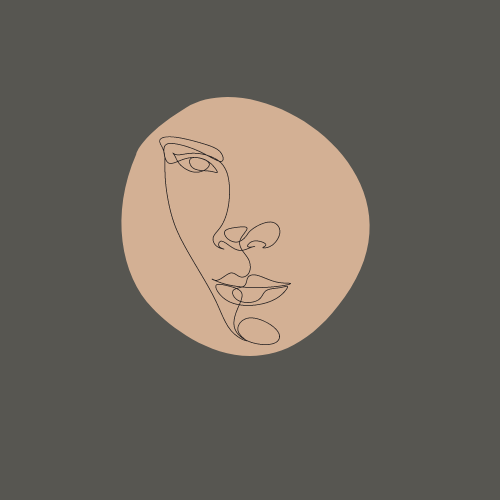
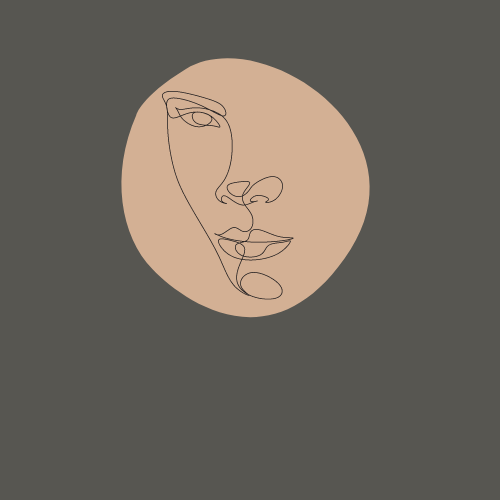
feat: add font-family generation

Changed region(s): [[0.24, 0.09, 0.75, 0.72], [0.36, 0.39, 0.39, 0.42]]

diff --git a/src/components/logoGeneration/index.ts b/src/components/logoGeneration/index.ts
@@ -23,14 +23,15 @@ export function sortLogoByScope() {
       resultArray = templatesMidecal;
       break;
     default:
-      console.log('default');
+      return;
   }
   return resultArray;
 }
 
 export function sortLogoTemplates() {
   const result = sortLogoByScope();
-  const filterStyle = result.filter(item => item.style === logoParameters.style && item.color === logoParameters.color);
+  // eslint-disable-next-line @typescript-eslint/no-non-null-assertion
+  const filterStyle = result!.filter(item => item.style === logoParameters.style && item.color === logoParameters.color);
   let resultArray: ITemplates[] = [];
   while (resultArray.length != 2) {
     const index = getRandomInt(filterStyle.length);    
@@ -58,4 +59,35 @@ export function checkBusinessPage() {
     logoParameters.scope = (document.querySelector('.type-of-activity') as HTMLSelectElement).value;
   }
 }
-  
+
+export function checkFontFamily(scope: string) {
+  let resultFont: string[] = [];
+  let fontsScope: string[] = [];
+  const fontsArt = ['Aboreto', 'Dancing Script', 'Kaushan Script', 'Tangerine'];
+  const fontsIt = ['Changa', 'Maven Pro', 'Quantico', 'Wallpoet'];
+  const fontsFood = ['Cabin Sketch', 'Caveat Brush', 'Merienda One', 'Trirong'];
+  const fontsMedical = ['Bellota', 'IM Fell English SC', 'Italiana', 'Jacques Francois Shadow'];
+  switch (scope) {
+    case 'art': 
+      fontsScope = fontsArt;
+      break;
+    case 'food':
+      fontsScope = fontsFood;
+      break;
+    case 'it':
+      fontsScope = fontsIt;
+      break;
+    case 'medical':
+      fontsScope = fontsMedical;
+      break;
+    default:
+      return;
+  }
+
+  while (resultFont.length != 1) {
+    const index = getRandomInt(4);    
+    resultFont.push(fontsScope[index]);    
+    resultFont = resultFont.filter((v, i, arr) => arr.indexOf(v) == i);
+  }
+  return resultFont;
+}

diff --git a/src/pages/logoResultPage/index.ts b/src/pages/logoResultPage/index.ts
@@ -1,4 +1,4 @@
-import { logoParameters, sortLogoTemplates } from '../../components/logoGeneration';
+import { checkFontFamily, logoParameters, sortLogoTemplates } from '../../components/logoGeneration';
 import Page from '../../components/pageTemplates';
 import { createButtonElement, createHtmlElement, createImageElement } from '../../utils';
 import { createMainHeader } from '../main';
@@ -15,7 +15,12 @@ const createLogoResultPageContent = () => {
     const text = createHtmlElement('p', 'logo-result-text');
     text.innerHTML = logoParameters.name;
     text.style.color = item.textColor;
-    text.style.fontSize = item.textSize;
+    if (logoParameters.name.length > 16) {
+      text.style.fontSize = '40px';
+    } else {
+      text.style.fontSize = '55px';
+    }
+    text.style.fontFamily = `${checkFontFamily(item.scope)}`;
     card.append(img, text);
     content.append(card);
   });

diff --git a/src/assets/fonts/index.scss b/src/assets/fonts/index.scss
@@ -1,0 +1,11 @@
+/// it
+@import url('https://fonts.googleapis.com/css2?family=Changa:wght@300&family=Maven+Pro&family=Quantico&family=Wallpoet&display=swap');
+
+/// style
+@import url('https://fonts.googleapis.com/css2?family=Aboreto&family=Dancing+Script:wght@500&family=Kaushan+Script&family=Tangerine&display=swap');
+
+/// food
+@import url('https://fonts.googleapis.com/css2?family=Cabin+Sketch&family=Caveat+Brush&family=Merienda+One&family=Trirong&display=swap');
+
+/// medical
+@import url('https://fonts.googleapis.com/css2?family=Bellota&family=IM+Fell+English+SC&family=Italiana&family=Jacques+Francois+Shadow&display=swap');

diff --git a/src/pages/logoResultPage/_logoResultPage.style.scss b/src/pages/logoResultPage/_logoResultPage.style.scss
@@ -8,6 +8,11 @@
     @include display-flex(row, center, center);
 }
 
+.logo-result-img {
+    width: 500px;
+    height: 500px;
+}
+
 .logo-result-card {
     position: relative;
     -webkit-box-shadow: 0px 5px 10px 2px rgba(34, 60, 80, 0.2);
@@ -23,5 +28,5 @@
 
 .logo-result-text {
     position: absolute;
-    top: 350px;
+    top: 360px;
 }

diff --git a/src/main.scss b/src/main.scss
@@ -77,3 +77,4 @@ body {
 @import 'pages/questionPages/questionPages.style';
 @import 'components/layoutTemplates/layoutTemplates.style';
 @import 'pages/logoResultPage/logoResultPage.style';
+@import 'assets/fonts/index'
